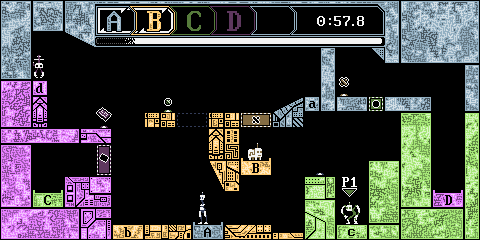
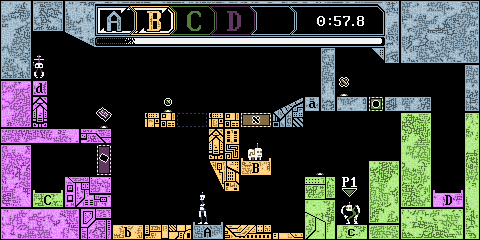
some maze effect stuff, I think?

diff --git a/src/utils/artutils.py b/src/utils/artutils.py
@@ -174,26 +174,34 @@ def lighter(color, pcnt=0.2):
 
 if __name__ == "__main__":
     test_img = pygame.image.load("planning/mockup_5.png")
-    output_img_path = "planning/mockup_5_mazified.png"
+    output_img_path = "planning/mockup_5_mazified_bg.png"
 
     blue = colors.to_int(colors.BLUE)
     green = colors.to_int(colors.GREEN)
     tan = colors.to_int(colors.TAN)
     purple = colors.to_int(colors.PURPLE)
+    black = colors.to_int(colors.PERFECT_BLACK)
+    red = (70, 25, 25)
 
     avoid_colors = [colors.to_int(colors.PERFECT_BLACK)]
+    # avoid_colors = [blue, green, tan, purple]
 
-    colors_to_mazify = [blue, green, tan, purple]
-    print("colors_to_mazify={}".format(colors_to_mazify))
-
-    pcnts = (-0.6, -0.5, 0.3, 0.4, 0.5)
+    pcnts = (-0.3, 0.35, 0.5)
+    pcnts = (0.1, 0.15, 0.2, 0.25)
 
     color_shifts = {
-        blue: [darker(blue, pcnt=v) for v in pcnts],
-        green: [darker(green, pcnt=v) for v in pcnts],
-        tan: [darker(tan, pcnt=v) for v in pcnts],
-        purple: [darker(purple, pcnt=v) for v in pcnts]
+        # blue: [darker(blue, pcnt=v) for v in pcnts],
+        # green: [darker(green, pcnt=v) for v in pcnts],
+        # tan: [darker(tan, pcnt=v) for v in pcnts],
+        # purple: [darker(purple, pcnt=v) for v in pcnts]
+        # black: [lighter(red, pcnt=v) for v in pcnts]
+        blue: [black],
+        green: [black],
+        tan: [black],
+        purple: [black],
     }
+
+    colors_to_mazify = [c for c in color_shifts]
 
     base_regions = find_color_regions(test_img, colors_to_include=colors_to_mazify)
 
